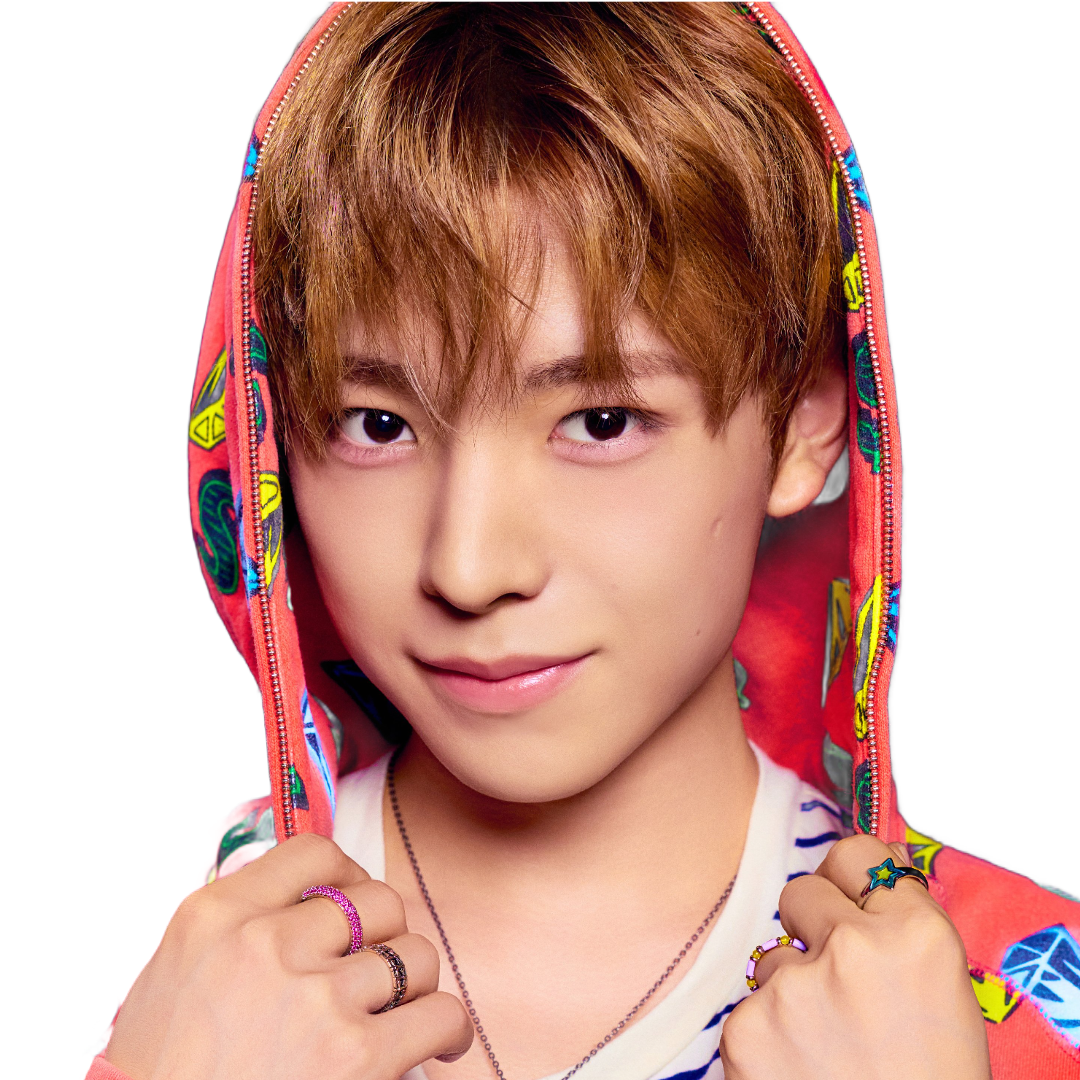
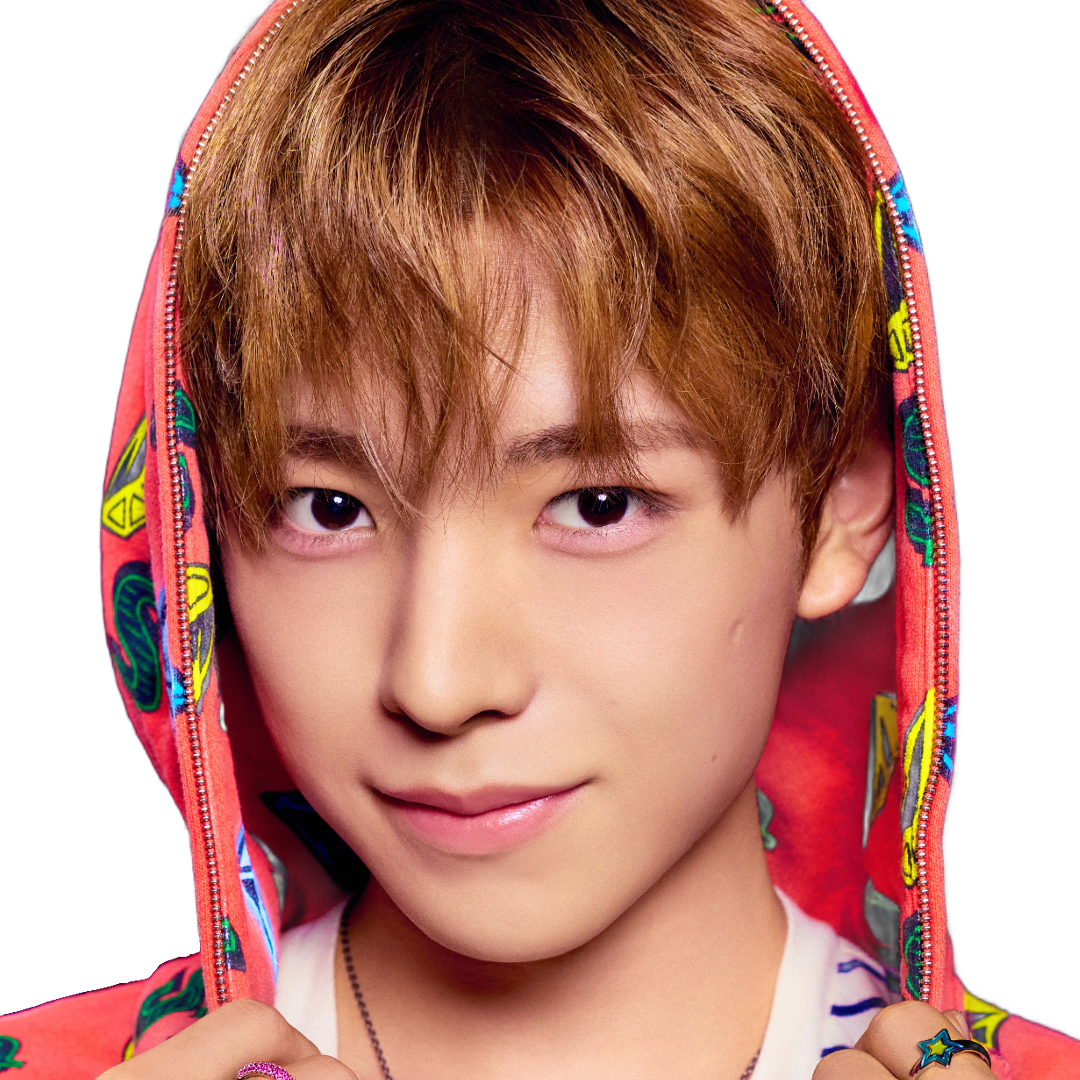
Cutout foto (quitar fondo)

diff --git a/js/ranking.js b/js/ranking.js
@@ -4,7 +4,7 @@
 /* ========================================= */
 
 /* Bump when the avatar images change, to bust the browser/Pages cache. */
-const PHOTO_VER = 219;
+const PHOTO_VER = 220;
 window.PHOTO_VER = PHOTO_VER;
 
 const Ranking = {
